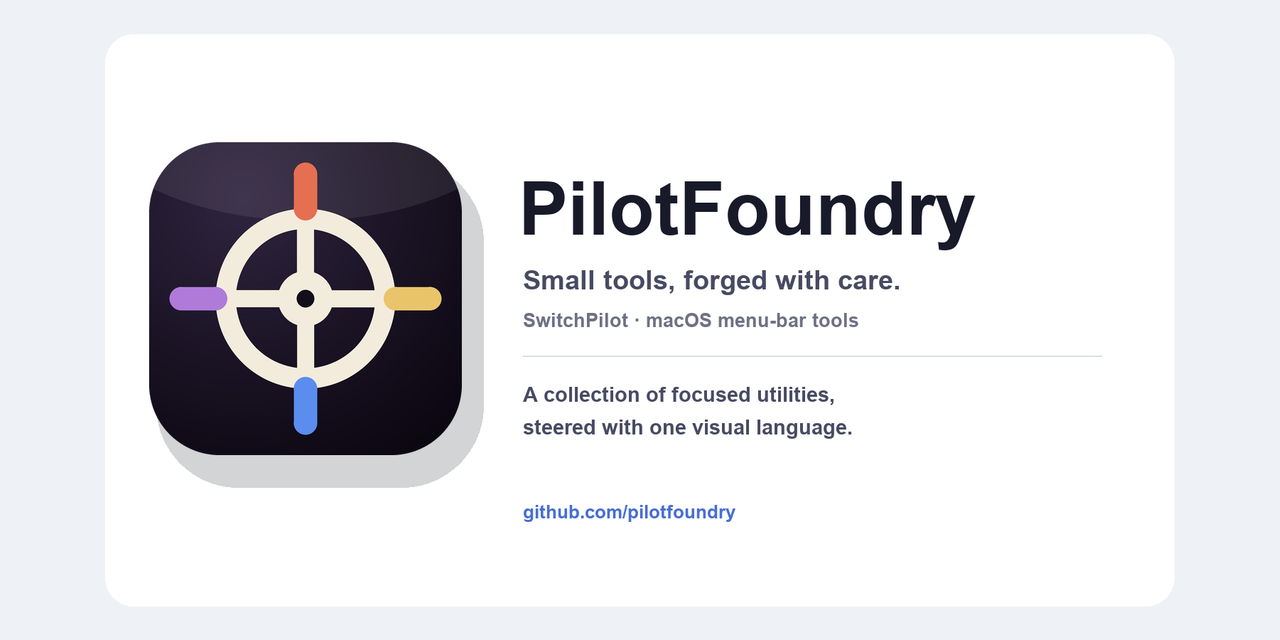
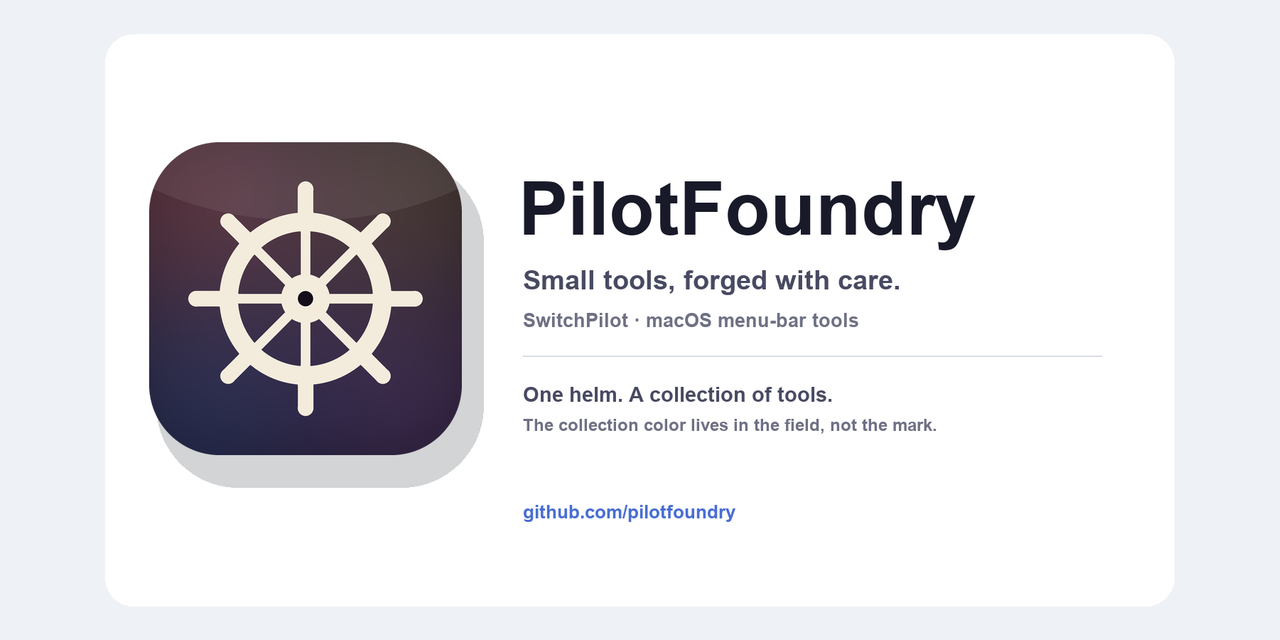
brand: make PilotFoundry helm monochrome with collection-color field

Changed region(s): [[0.0938, 0.2188, 0.375, 0.7188], [0.4062, 0.6562, 0.75, 0.6875], [0.4062, 0.5938, 0.6562, 0.625]]

diff --git a/assets/org/README.md b/assets/org/README.md
@@ -4,13 +4,15 @@ PilotFoundry is the home for small, focused macOS tools, including SwitchPilot.
 
 - GitHub: https://github.com/pilotfoundry
 - Tagline: **Small tools, forged with care.**
-- Mark: a simplified ship's wheel. The hub, four spokes and rim carry the
-  precision/craft; four colored grips (coral, saffron, azure, lilac) represent a
-  collection of distinct tools.
-- Palette: midnight aubergine / ink base, ivory mark, and four collection
-  accents. Intentionally **not** the SwitchPilot forest-green palette; the
-  family resemblance is the rounded-square frame, thick rounded forms and soft
-  premium finish, not the color.
+- Mark: a simplified ship's helm. Eight ivory grips, a hub, spokes and an outer
+  rim make the wheel read correctly at small sizes (a four-grip monochrome
+  version turns into a crosshair and was rejected).
+- Collection color: four low-contrast aurora pools in the dark field (coral,
+  saffron, azure, lilac). The helm itself is single-color ivory, so the mark does
+  not become busy; the field carries the "collection of tools" idea.
+- Family resemblance to SwitchPilot is **style**, not palette: rounded-square
+  frame, thick rounded forms, soft gradient/sheen and premium restraint. The
+  organization deliberately does not use SwitchPilot's forest green.
 - App product family: SwitchPilot is `pilotfoundry/switchpilot`; future tools use
   the same frame and a distinct glyph.
 
